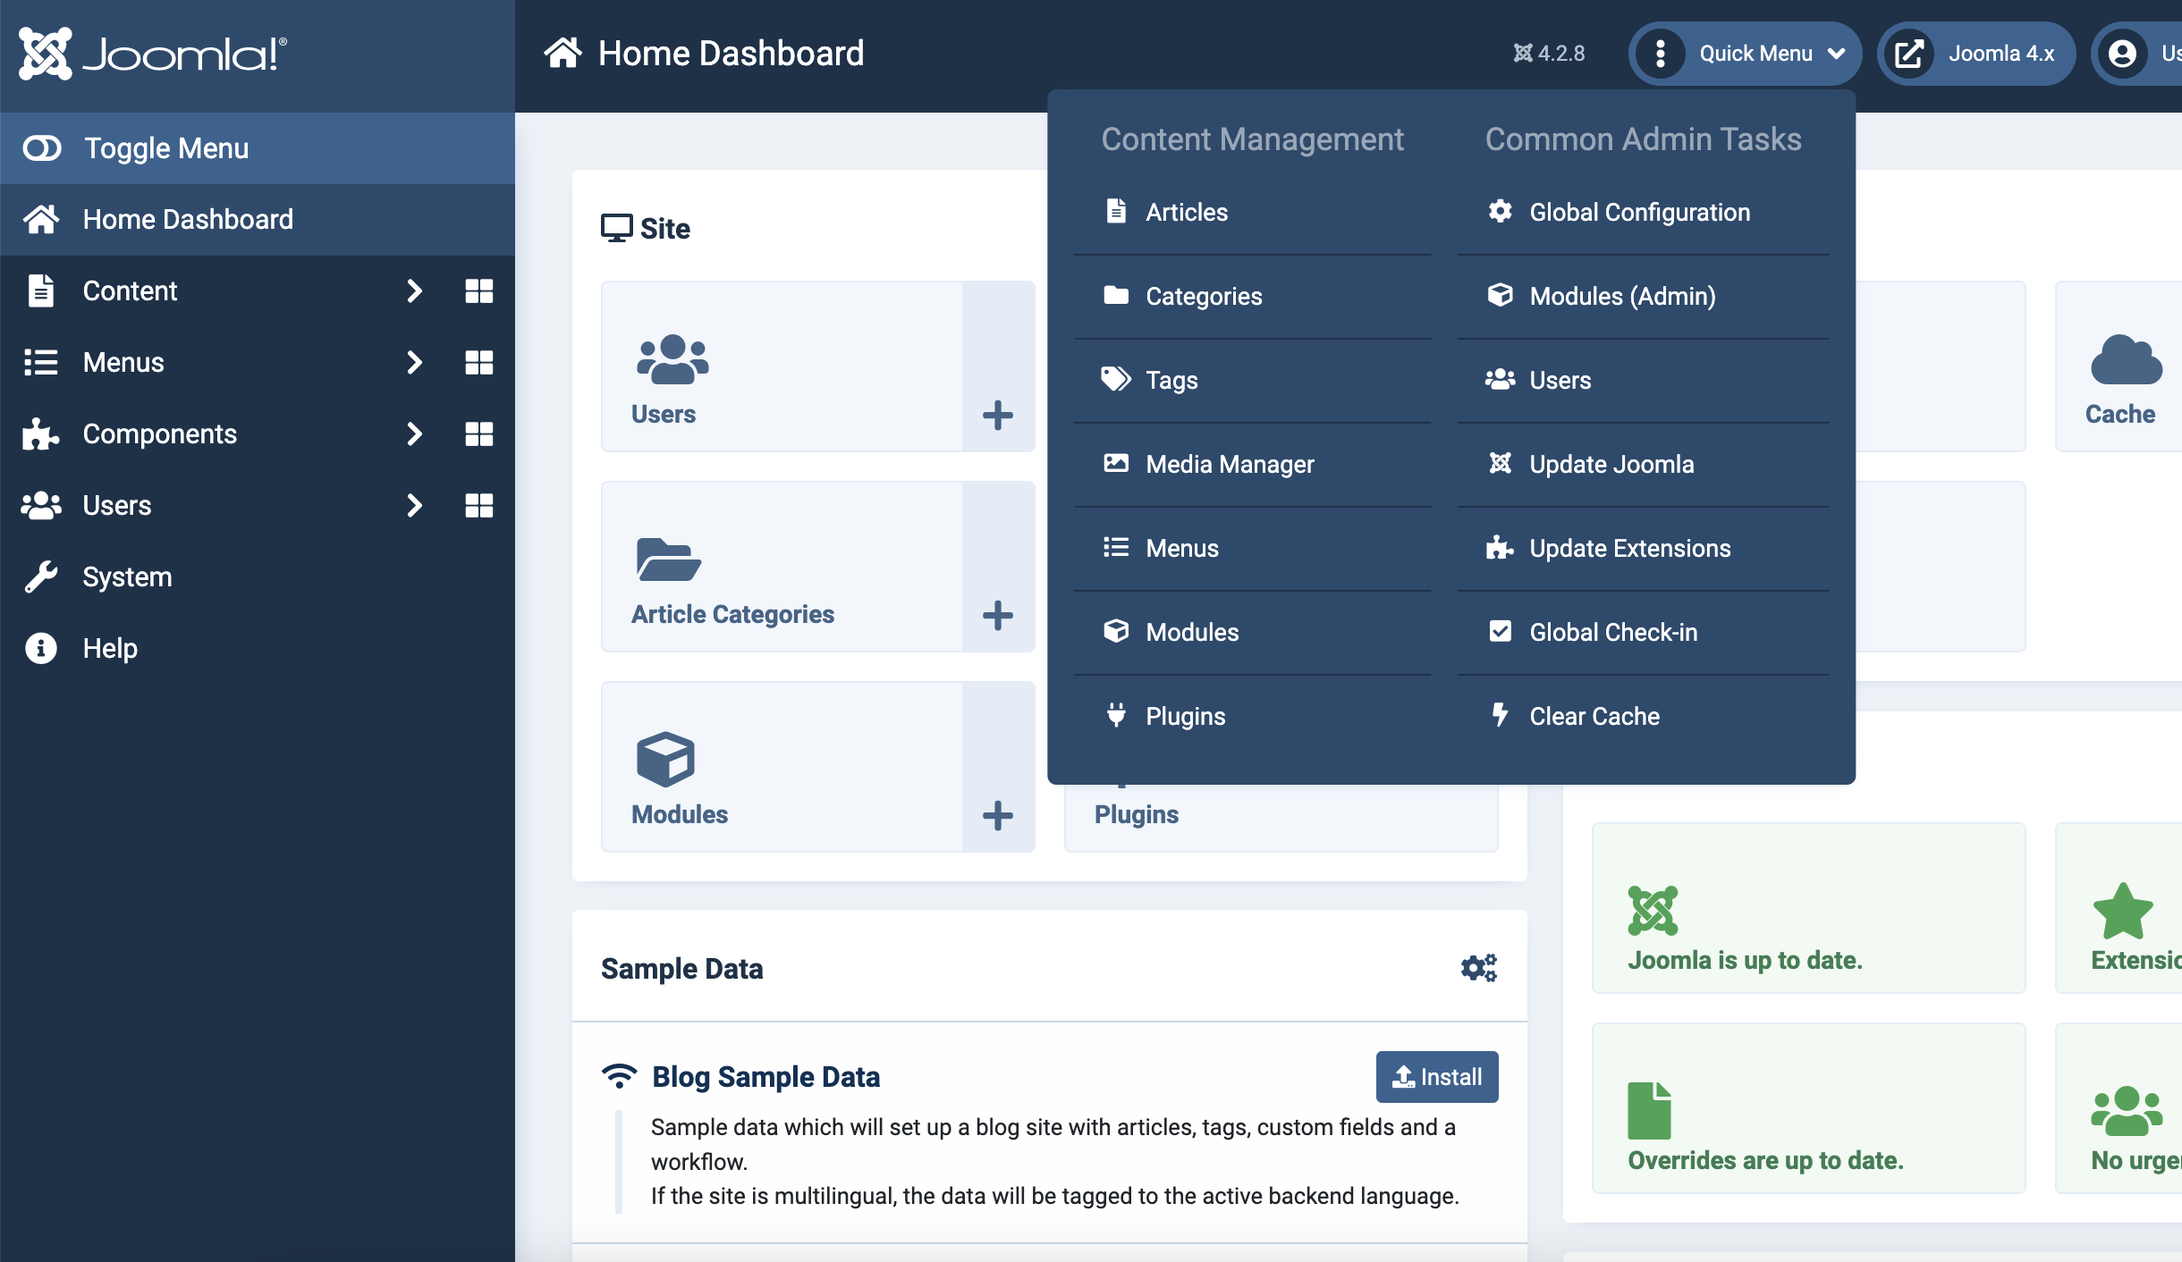
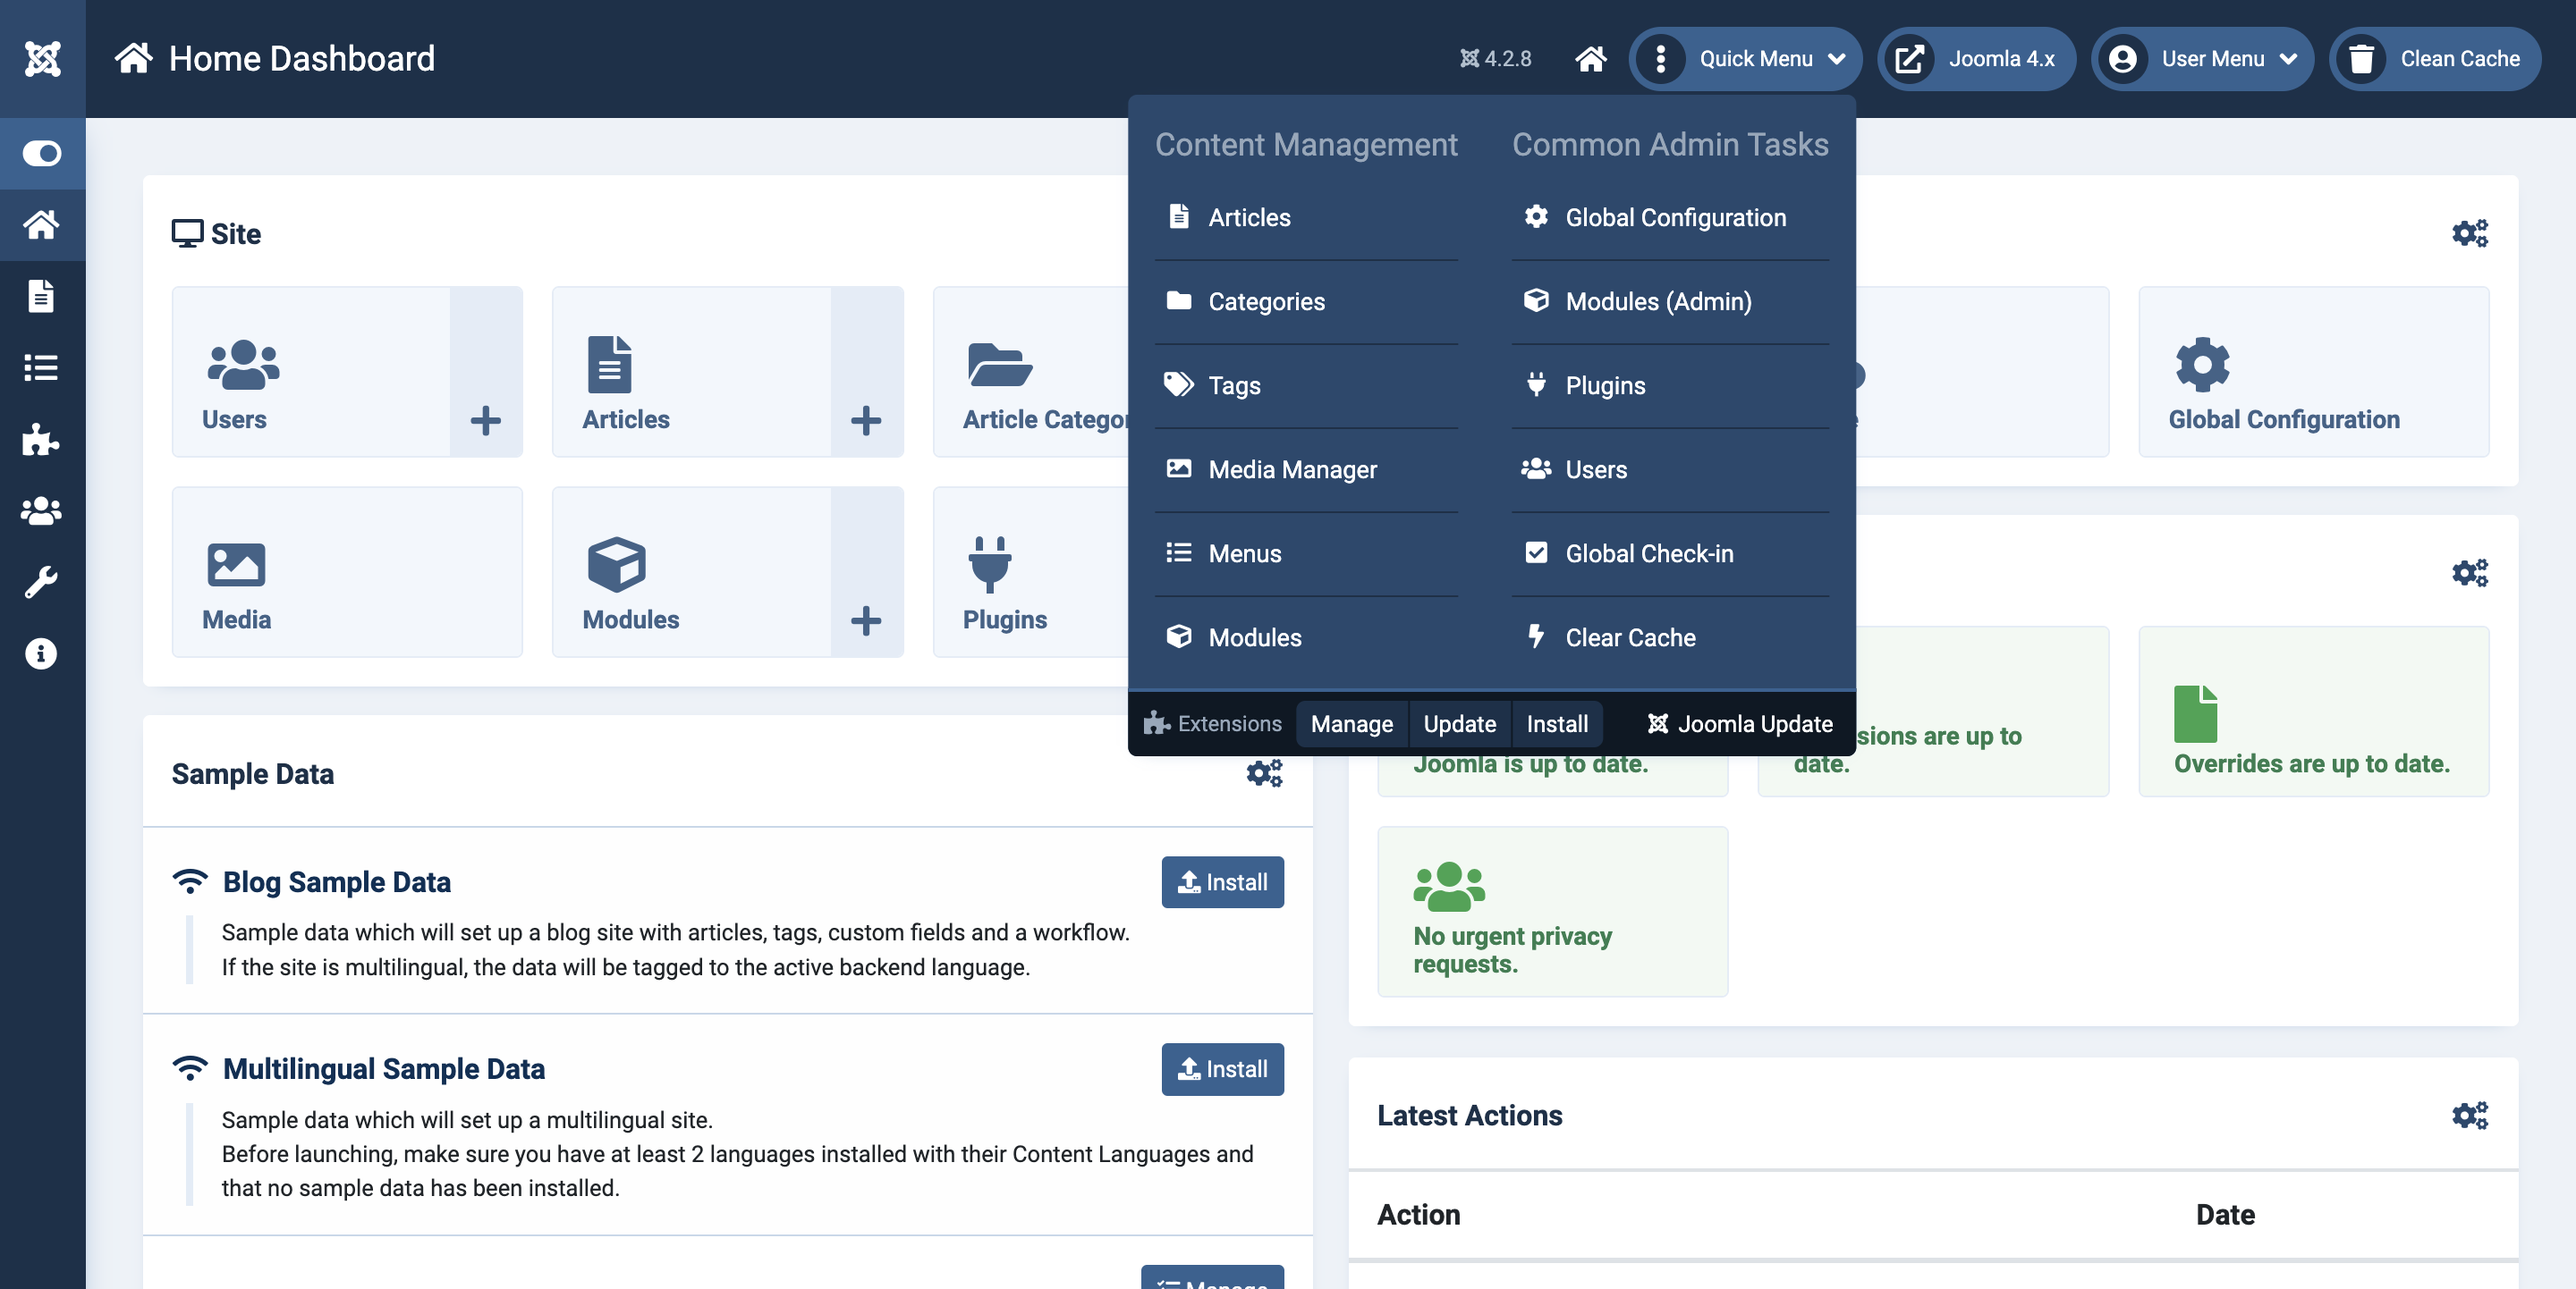
Layout update before release, update previews

diff --git a/tmpl/default.php b/tmpl/default.php
@@ -19,7 +19,7 @@ use Joomla\CMS\Router\Route;
 // ACL
 $user = Factory::getUser();
 $isSuperAdmin = $user->authorise('core.admin', 'com_config');
-$canAccessAdminTasks = ($isSuperAdmin || $user->authorise('core.manage', 'com_config') || $user->authorise('core.manage', 'com_modules') || $user->authorise('core.manage', 'com_users') || $user->authorise('core.manage', 'com_installer') || $user->authorise('core.manage', 'com_checkin') || $user->authorise('core.manage', 'com_cache')) ? true : false;
+$canAccessAdminTasks = ($isSuperAdmin || $user->authorise('core.manage', 'com_config') || $user->authorise('core.manage', 'com_modules') || $user->authorise('core.manage', 'com_plugins') || $user->authorise('core.manage', 'com_users') || $user->authorise('core.manage', 'com_checkin') || $user->authorise('core.manage', 'com_cache')) ? true : false;
 
 // CSS
 $gridColumns = '1fr';
@@ -30,13 +30,33 @@ $document = Factory::getDocument();
 $document->addStyleDeclaration('
 
     /* Styles for Admin Quick Menu [start] */
-    .header .dropdown-menu.aqm_container {border:0;border-radius:5px;background:var(--template-bg-dark-70);}
-    .aqm_grid {display:grid;grid-template-columns:'.$gridColumns.';grid-gap:15px;padding:15px;}
-    .aqm_grid > div > .aqm_list_header {background:none;color:#98a6b9;font-size:1.1rem;margin:0 0 5px 0;padding:5px 15px;white-space:nowrap;}
-    .aqm_grid > div > a.dropdown-item {margin:0;padding:15px;border-top:0;border-bottom:1px solid var(--template-bg-dark-80);}
-    .aqm_grid > div > a.dropdown-item:last-child {border:0;}
+    .jw_qm_container {position:relative;margin-left:30px;}
+    a.jw_qm_home_link {display:block;position:absolute;top:10px;left:-30px;}
+    .jw_qm_container > .dropdown-menu.jw_qm_menu {border:0;border-radius:5px;background:var(--template-bg-dark-70);overflow:hidden;}
+    .jw_qm_grid {display:grid;grid-template-columns:'.$gridColumns.';grid-gap:0;}
+    .jw_qm_grid > div {padding:15px 15px 5px;}
+    .jw_qm_grid > div > .jw_qm_list_header {background:none;color:#98a6b9;font-size:1.1rem;margin:0 0 5px 0;padding:5px 0;white-space:nowrap;}
+    .jw_qm_grid > div > a.dropdown-item {margin:0;padding:15px 5px;border-top:0;border-bottom:1px solid var(--template-bg-dark-80);}
+    .jw_qm_grid > div > a.dropdown-item:last-child {border:0;}
+    .jw_qm_grid > div.jw_qm_grid_cell_bottom {grid-area:2/1/span 1/span 2;background:var(--template-bg-dark-90);border-top:2px solid var(--template-bg-dark-60);display:flex;align-items:center;justify-content:space-evenly;padding:5px;gap:5px;}
+    .jw_qm_grid_cell_bottom .jw_qm_ext_label {color:#98a6b9;display:inline-block;font-weight:normal;font-size:0.75rem;justify-self:flex-end;}
+    .jw_qm_grid_cell_bottom .jw_qm_ext_label span {font-size:0.85rem;}
+    .jw_qm_grid_cell_bottom .jw_qm_ext_actions {background:var(--template-bg-dark);border-radius:5px;overflow:hidden;}
+    .jw_qm_grid_cell_bottom .jw_qm_ext_actions a {padding:5px 8px;margin:0;display:inline-block;font-size:0.8rem;}
+    .jw_qm_grid_cell_bottom .jw_qm_ext_actions a:hover {background:var(--template-bg-dark-50);}
+    .jw_qm_grid_cell_bottom .jw_qm_ext_actions a:nth-child(2) {border-left:1px solid var(--template-bg-dark-90);border-right:1px solid var(--template-bg-dark-90);}
+    .jw_qm_grid_cell_bottom .jw_qm_jupdate {padding-left:10px;}
+    .jw_qm_grid_cell_bottom .jw_qm_jupdate a {padding:5px;display:inline-block;font-size:0.8rem;}
+    .jw_qm_grid_cell_bottom .jw_qm_jupdate a:hover {color:var(--template-bg-dark-30);}
+    .jw_qm_grid_cell_bottom .jw_qm_jupdate a b {font-weight:inherit;}
     @media only screen and (max-width:1024px) {
-        .aqm_grid > div > .aqm_list_header {white-space:normal;line-height:120%;}
+        .jw_qm_container {position:relative;margin-left:0;}
+        a.jw_qm_home_link {display:none;}
+        .jw_qm_container > .dropdown-menu.jw_qm_menu {margin-bottom:10px !important;}
+        .jw_qm_grid > div > .jw_qm_list_header {white-space:normal;line-height:120%;}
+        .jw_qm_grid_cell_bottom .jw_qm_ext_actions a {padding:10px 5px;}
+        .jw_qm_grid_cell_bottom .jw_qm_jupdate {padding-left:5px;}
+        .jw_qm_grid_cell_bottom .jw_qm_jupdate a b {display:none;}
     }
     /* Styles for Admin Quick Menu [finish] */
 
@@ -46,7 +66,10 @@ $document->addStyleDeclaration('
 HTMLHelper::_('bootstrap.dropdown', '.dropdown-toggle');
 
 ?>
-<div class="header-item-content dropdown header-profile">
+<div class="header-item-content dropdown header-profile jw_qm_container">
+    <a class="jw_qm_home_link" href="<?php echo Route::_('index.php'); ?>" title="<?php echo Text::_('MOD_JW_QM_DASHBOARD'); ?>">
+        <span class="icon-home" aria-hidden="true"></span>
+    </a>
     <button class="dropdown-toggle d-flex align-items-center ps-0 py-0" data-bs-toggle="dropdown" type="button" title="<?php echo Text::_('MOD_JW_QM_TITLE'); ?>">
         <div class="header-item-icon">
             <span class="icon-ellipsis-v" aria-hidden="true"></span>
@@ -56,10 +79,10 @@ HTMLHelper::_('bootstrap.dropdown', '.dropdown-toggle');
         </div>
         <span class="icon-angle-down" aria-hidden="true"></span>
     </button>
-    <div class="dropdown-menu dropdown-menu-end aqm_container">
-        <div class="aqm_grid">
-            <div>
-                <div class="aqm_list_header">
+    <div class="dropdown-menu dropdown-menu-end jw_qm_menu">
+        <div class="jw_qm_grid">
+            <div class="jw_qm_grid_cell_left">
+                <div class="jw_qm_list_header">
                     <?php echo Text::_('MOD_JW_QM_CONTENT_MANAGEMENT'); ?>
                 </div>
                 <?php if ($isSuperAdmin || $user->authorise('core.manage', 'com_content')): ?>
@@ -98,16 +121,10 @@ HTMLHelper::_('bootstrap.dropdown', '.dropdown-toggle');
                     <?php echo Text::_('MOD_JW_QM_MODULES'); ?>
                 </a>
                 <?php endif; ?>
-                <?php if ($isSuperAdmin || $user->authorise('core.manage', 'com_plugins')): ?>
-                <a class="dropdown-item" href="<?php echo Route::_('index.php?option=com_plugins'); ?>">
-                    <span class="icon-plug icon-fw" aria-hidden="true"></span>
-                    <?php echo Text::_('MOD_JW_QM_PLUGINS'); ?>
-                </a>
-                <?php endif; ?>
             </div>
             <?php if ($canAccessAdminTasks): ?>
-            <div>
-                <div class="aqm_list_header">
+            <div class="jw_qm_grid_cell_right">
+                <div class="jw_qm_list_header">
                     <?php echo Text::_('MOD_JW_QM_COMMON_ADMIN_TASKS'); ?>
                 </div>
                 <?php if ($isSuperAdmin || $user->authorise('core.manage', 'com_config')): ?>
@@ -122,22 +139,16 @@ HTMLHelper::_('bootstrap.dropdown', '.dropdown-toggle');
                     <?php echo Text::_('MOD_JW_QM_MODULES_ADMIN'); ?>
                 </a>
                 <?php endif; ?>
+                <?php if ($isSuperAdmin || $user->authorise('core.manage', 'com_plugins')): ?>
+                <a class="dropdown-item" href="<?php echo Route::_('index.php?option=com_plugins'); ?>">
+                    <span class="icon-plug icon-fw" aria-hidden="true"></span>
+                    <?php echo Text::_('MOD_JW_QM_PLUGINS'); ?>
+                </a>
+                <?php endif; ?>
                 <?php if ($isSuperAdmin || $user->authorise('core.manage', 'com_users')): ?>
                 <a class="dropdown-item" href="<?php echo Route::_('index.php?option=com_users'); ?>">
                     <span class="icon-users icon-fw" aria-hidden="true"></span>
                     <?php echo Text::_('MOD_JW_QM_USERS'); ?>
-                </a>
-                <?php endif; ?>
-                <?php if ($isSuperAdmin): ?>
-                <a class="dropdown-item" href="<?php echo Route::_('index.php?option=com_joomlaupdate'); ?>">
-                    <span class="icon-joomla icon-fw" aria-hidden="true"></span>
-                    <?php echo Text::_('MOD_JW_QM_UPDATE_JOOMLA'); ?>
-                </a>
-                <?php endif; ?>
-                <?php if ($isSuperAdmin || $user->authorise('core.manage', 'com_installer')): ?>
-                <a class="dropdown-item" href="<?php echo Route::_('index.php?option=com_installer&view=update'); ?>">
-                    <span class="icon-puzzle-piece icon-fw" aria-hidden="true"></span>
-                    <?php echo Text::_('MOD_JW_QM_UPDATE_EXTENSIONS'); ?>
                 </a>
                 <?php endif; ?>
                 <?php if ($isSuperAdmin || $user->authorise('core.manage', 'com_checkin')): ?>
@@ -151,6 +162,26 @@ HTMLHelper::_('bootstrap.dropdown', '.dropdown-toggle');
                     <span class="icon-bolt icon-fw" aria-hidden="true"></span>
                     <?php echo Text::_('MOD_JW_QM_CLEAR_CACHE'); ?>
                 </a>
+                <?php endif; ?>
+            </div>
+            <?php endif; ?>
+            <?php if ($isSuperAdmin || $user->authorise('core.manage', 'com_installer')): ?>
+            <div class="jw_qm_grid_cell_bottom">
+                <?php if ($user->authorise('core.manage', 'com_installer')): ?>
+                <div class="jw_qm_ext_label">
+                    <span class="icon-puzzle-piece icon-fw" aria-hidden="true"></span> <?php echo Text::_('MOD_JW_QM_EXTENSIONS'); ?>
+                </div>
+                <div class="jw_qm_ext_actions">
+                    <a href="<?php echo Route::_('index.php?option=com_installer&view=manage'); ?>"><?php echo Text::_('MOD_JW_QM_MANAGE'); ?></a><a href="<?php echo Route::_('index.php?option=com_installer&view=update'); ?>"><?php echo Text::_('MOD_JW_QM_UPDATE'); ?></a><a href="<?php echo Route::_('index.php?option=com_installer&view=install'); ?>"><?php echo Text::_('MOD_JW_QM_INSTALL'); ?></a>
+                </div>
+                <?php endif; ?>
+                <?php if ($isSuperAdmin): ?>
+                <div class="jw_qm_jupdate">
+                    <a href="<?php echo Route::_('index.php?option=com_joomlaupdate'); ?>">
+                        <span class="icon-joomla icon-fw" aria-hidden="true"></span>
+                        <?php echo Text::_('MOD_JW_QM_JOOMLA_UPDATE'); ?>
+                    </a>
+                </div>
                 <?php endif; ?>
             </div>
             <?php endif; ?>
